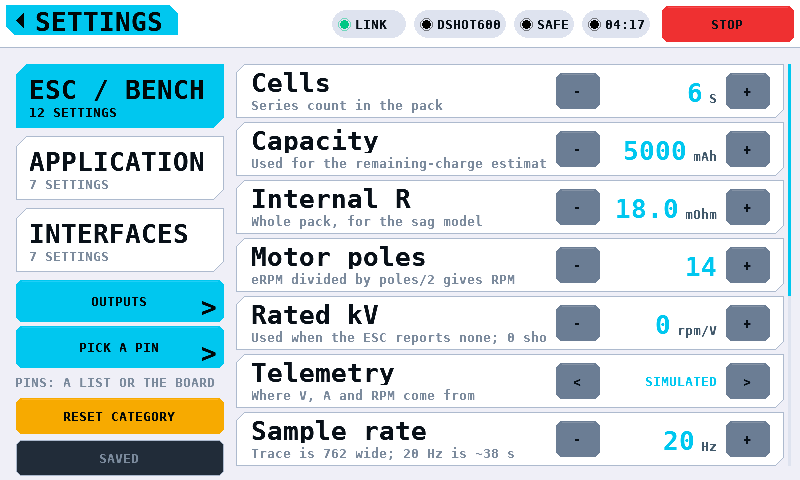
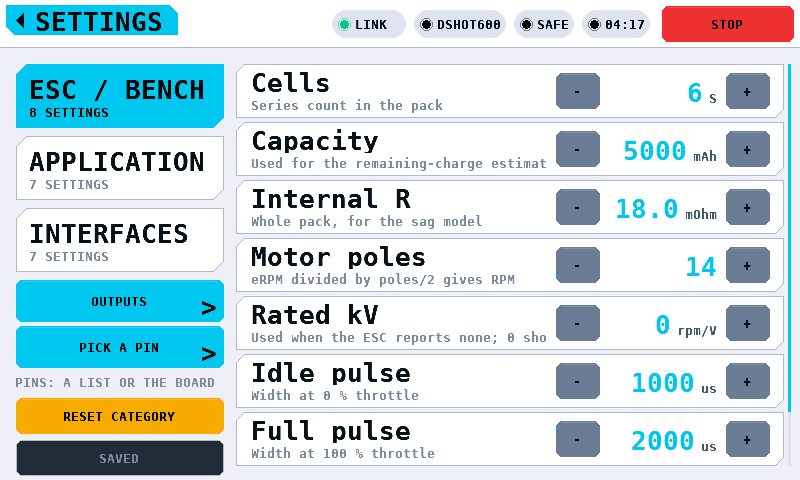
Remove the four ESC settings nothing reads
Telemetry, Sample rate, Output and Output pin had no consumer anywhere in the
tree. They read as controls and changed nothing: an operator who set
Telemetry to DSHOT TELEM and got no telemetry had been sent to a setting
instead of to the binding, which is where the wiring is actually described.

The OUTPUTS screen holds the driver, the rate and the pin, and the CHAN_CFG
role holds what a channel is for. ESC / BENCH is eight settings now.

Stored settings are keyed by name, so the removed keys are simply never read
again and every remaining setting keeps its own value.

diff --git a/test/host/test_settings.c b/test/host/test_settings.c
@@ -214,17 +214,17 @@ TEST_CASE(values_are_clamped_to_the_schema)
 TEST_CASE(enums_and_booleans_cycle)
 {
     fresh_model();
-    const setting_def_t *d = settings_def(SET_TELEM_SRC);
+    const setting_def_t *d = settings_def(SET_LANGUAGE);
     CHECK(d->option_count >= 2);
 
     for (int i = 0; i < d->option_count; ++i) {
-        CHECK_EQ(settings_get_int(SET_TELEM_SRC), i);
-        settings_adjust(SET_TELEM_SRC, 1);
+        CHECK_EQ(settings_get_int(SET_LANGUAGE), i);
+        settings_adjust(SET_LANGUAGE, 1);
     }
-    CHECK_EQ(settings_get_int(SET_TELEM_SRC), 0);      /* wrapped */
+    CHECK_EQ(settings_get_int(SET_LANGUAGE), 0);      /* wrapped */
 
-    settings_adjust(SET_TELEM_SRC, -1);
-    CHECK_EQ(settings_get_int(SET_TELEM_SRC), d->option_count - 1);
+    settings_adjust(SET_LANGUAGE, -1);
+    CHECK_EQ(settings_get_int(SET_LANGUAGE), d->option_count - 1);
 
     CHECK(settings_get_bool(SET_BACKLIGHT));
     settings_adjust(SET_BACKLIGHT, 1);
@@ -280,9 +280,9 @@ TEST_CASE(value_text_renders_every_type)
     settings_set(SET_BACKLIGHT, 0);
     CHECK_STR_EQ(settings_value_text(SET_BACKLIGHT, buf, sizeof(buf)), "OFF");
 
-    settings_set(SET_TELEM_SRC, 0);
-    CHECK_STR_EQ(settings_value_text(SET_TELEM_SRC, buf, sizeof(buf)),
-                 settings_def(SET_TELEM_SRC)->options[0]);
+    settings_set(SET_LANGUAGE, 0);
+    CHECK_STR_EQ(settings_value_text(SET_LANGUAGE, buf, sizeof(buf)),
+                 settings_def(SET_LANGUAGE)->options[0]);
 
     settings_set(SET_PACK_CELLS, 6);
     CHECK_STR_EQ(settings_value_text(SET_PACK_CELLS, buf, sizeof(buf)), "6");

diff --git a/shared/settings/settings.c b/shared/settings/settings.c
@@ -23,10 +23,6 @@
 #include <stdio.h>
 #include <string.h>
 
-static const char *const k_telem_src[] = {
-    "SIMULATED", "BLHELI SERIAL", "DSHOT TELEM", "VESC", "SENSORS",
-};
-static const char *const k_out_proto[] = { "SERVO PWM", "DSHOT300", "DSHOT600" };
 static const char *const k_theme[]     = { "DARK", "LIGHT" };
 static const char *const k_language[]  = { "ENGLISH", "DEUTSCH" };
 static const char *const k_units[]     = { "METRIC", "IMPERIAL" };
@@ -56,18 +52,6 @@ static const setting_def_t k_defs[SETTING_COUNT] = {
         "motor_kv", "Rated kV",
         "Used when the ESC reports none; 0 shows the field empty", "rpm/V",
         SET_CAT_ESC, SET_TYPE_INT, 0, 10000, 10, 0, NULL, 0 },
-    [SET_TELEM_SRC] = {
-        "telem_src", "Telemetry", "Where V, A and RPM come from", "",
-        SET_CAT_ESC, SET_TYPE_ENUM, 0, 0, 1, 0, ENUM_OPTS(k_telem_src) },
-    [SET_TELEM_HZ] = {
-        "telem_hz", "Sample rate", "Trace is 762 wide; 20 Hz is ~38 s", "Hz",
-        SET_CAT_ESC, SET_TYPE_INT, 5, 100, 5, 20, NULL, 0 },
-    [SET_OUT_PROTO] = {
-        "out_proto", "Output", "Throttle signal to the ESC", "",
-        SET_CAT_ESC, SET_TYPE_ENUM, 0, 0, 1, 0, ENUM_OPTS(k_out_proto) },
-    [SET_OUT_PIN] = {
-        "out_pin", "Output pin", "-1 disables the throttle output", "GPIO",
-        SET_CAT_ESC, SET_TYPE_INT, -1, 48, 1, 6, NULL, 0 },
     [SET_OUT_MIN_US] = {
         "out_min_us", "Idle pulse", "Width at 0 % throttle", "us",
         SET_CAT_ESC, SET_TYPE_INT, 800, 1600, 10, 1000, NULL, 0 },

diff --git a/shared/settings/include/settings.h b/shared/settings/include/settings.h
@@ -43,10 +43,6 @@ typedef enum {
     SET_PACK_MOHM,
     SET_MOTOR_POLES,
     SET_MOTOR_KV,
-    SET_TELEM_SRC,
-    SET_TELEM_HZ,
-    SET_OUT_PROTO,
-    SET_OUT_PIN,
     SET_OUT_MIN_US,
     SET_OUT_MAX_US,
     SET_OUT_RAMP,

diff --git a/STATUS.md b/STATUS.md
@@ -269,7 +269,6 @@ _Generated by `tools/coverage.py`; CI runs `--check` and fails on drift._
 | Output drivers on hardware | all four are written and none has been seen on a pin. What a host test cannot reach: every bit timing, the DMA ring that plays a PPM frame, the PIO turnaround from a bidirectional DShot frame to its reply, and whether an ESC answers at all | an oscilloscope, a servo, and an ESC that does bidirectional DShot. [What is unconfirmed](docs/DShot.md#what-has-not-been-confirmed-on-a-wire) |
 | Flash on the coprocessor is not exercised | the store is written from a build that has never run: the erase and program window, the heartbeat re-acquiring after it, and the sector surviving a power cycle are all unmeasured. The window now measures itself and the coprocessor prints it after every save, because it is the number that decides whether a save is survivable: this core answers nothing while it writes, the monitor calls the beat dead at 150 ms and the link calls the host silent at 200 ms | a board, a power cycle, and a scope on the heartbeat across a save |
 | The capability word is read once, at boot | `s_capabilities` is taken from the identity page during bring-up and never again, so a coprocessor that arrives after boot, or is swapped for one with different parts fitted, leaves the menu marked from the wrong word. The board identity beside it comes from the identity page that opens each link, so it follows a swap; this word does not, because it is written at boot and read by the render task, and moving the write into the control task adds a cross-task race | the same snapshot treatment the bench numbers already get |
-| `Output pin` and `Output` are dead settings | the outputs screen replaced them and they are still in the Setup table, where they now say nothing | remove them from the schema, or point them at the screen |
 | Coprocessor board file | the build uses `pimoroni_pico_plus2_rp2350` (RP2350B, 16 MB flash); the bring-up module is a Waveshare RP2350-CAN (RP2350A, 4 MB flash) | a board header for the module, or a `-DPICO_BOARD` in CI; the final board is an RP2350B for the 27 to 32 GPIO (general-purpose input/output) the pin budget needs |
 | Panel TWAI pins | GPIO19 (RX) and GPIO20 (TX) inferred from the multiplexer; confirmed empirically by the bring-up | trace on the schematic |
 | UART (universal asynchronous receiver-transmitter) socket GPIOs | UART0's default pins assumed for the bridged USB-C socket; the secondary USB-Serial-JTAG (the ESP32-S3's built-in USB (Universal Serial Bus) serial and debug bridge) console covers a mismatch | read off the schematic |
